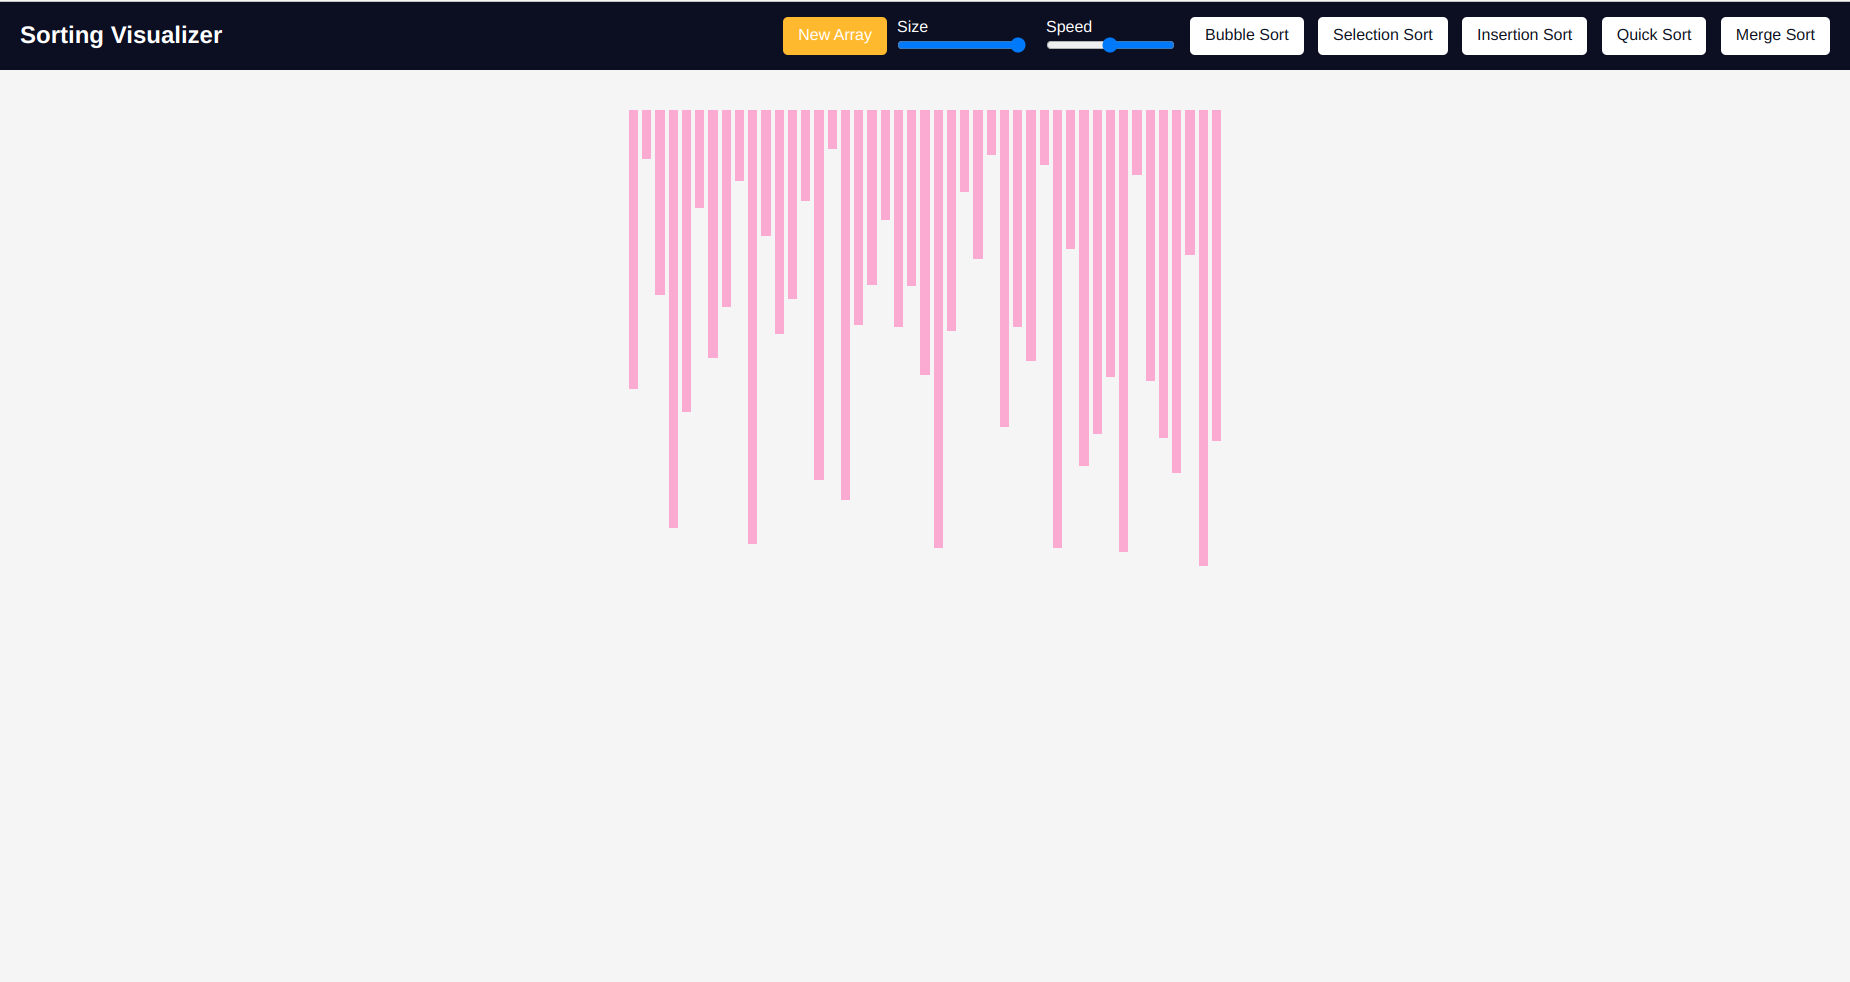
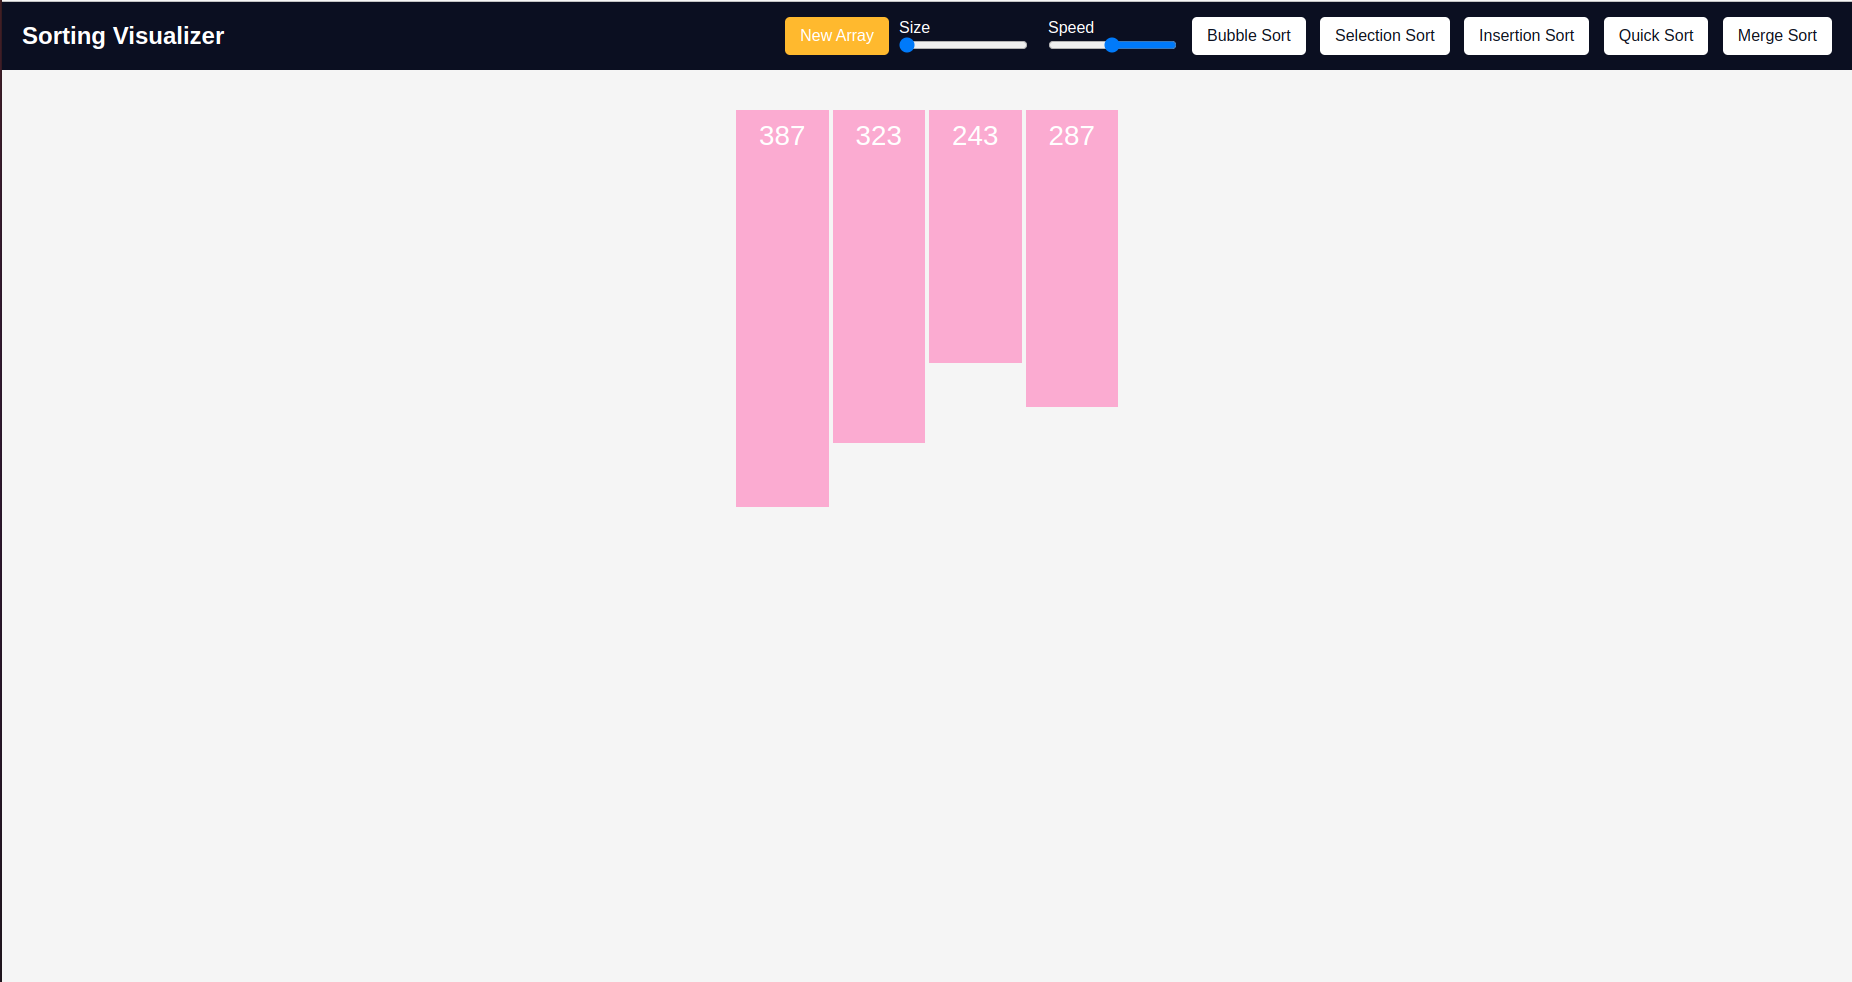
Added Size changing function in array style

diff --git a/Javascripts/sort.js b/Javascripts/sort.js
@@ -18,7 +18,12 @@ let dropdown = document.getElementById("dropdown");
 let visualize = document.getElementById("visualize");
 var w = window.innerWidth;
 let speed = speedSlider.value;
+
 console.log("///"+w)
+
+if(w>1130){
+    sizeSlider.max=100;
+}
 
 if(w<450){
     sizeSlider.max=65;
@@ -43,7 +48,7 @@ function createArray(){
     for(let i=0; i<arraySize; i++){
         let length = Math.floor((Math.random()*450)+25);
         let bar = document.createElement("div");
-        //bar.innerHTML=length;
+        bar.innerHTML=length;
         bar.id = i
         bar.className = "array";
         array.push(length);
@@ -54,7 +59,31 @@ function createArray(){
 
 
 sizeSlider.onchange = function(){
+    let size;
+    let font;
     createArray();
+    let cssArr = document.querySelectorAll('.array')
+    if(sizeSlider.value <= 14){
+        size = 5;
+        font = 2;
+    }
+    if(sizeSlider.value > 14){
+        size = 2;
+        font = 0;
+    }
+    if(sizeSlider.value > 25){
+        size = 1;
+        font = 0;
+    }
+    if(sizeSlider.value > 35){
+        size = 0.5;
+        font = 0;
+    }
+
+    cssArr.forEach(arr =>{
+        arr.style.fontSize = font+"vw"
+        arr.style.width = size+"vw";
+    });
 }
 
 newArray.onclick = function(){

diff --git a/Javascripts/merge.js b/Javascripts/merge.js
@@ -30,6 +30,7 @@ async function conqure(array, si, mid, ei){
             }
             
             document.getElementById(k).style.height = left[i];
+            document.getElementById(k).innerHTML = parseInt(left[i]);
             i++;
             k++;
         }
@@ -41,6 +42,7 @@ async function conqure(array, si, mid, ei){
                 document.getElementById(k).style.background="lightgreen";
             } 
             document.getElementById(k).style.height = right[j];
+            document.getElementById(k).innerHTML = parseInt(right[j]);
             j++;
             k++;
         }
@@ -54,6 +56,7 @@ async function conqure(array, si, mid, ei){
             document.getElementById(k).style.background="lightgreen";
         }
         document.getElementById(k).style.height = left[i];
+        document.getElementById(k).innerHTML = parseInt(left[i]);
         i++;
         k++;
     }
@@ -66,6 +69,7 @@ async function conqure(array, si, mid, ei){
             document.getElementById(k).style.background="lightgreen";
         }
         document.getElementById(k).style.height = right[j];
+        document.getElementById(k).innerHTML = parseInt(right[j]);
         j++;
         k++;
     }

diff --git a/Javascripts/quick.js b/Javascripts/quick.js
@@ -16,7 +16,9 @@ import {wait,disable,enable} from "./sort.js"
             let temp = document.getElementById(i).style.height;
             
             document.getElementById(i).style.height = document.getElementById(j).style.height
+            document.getElementById(i).innerHTML = parseInt(document.getElementById(j).style.height);
             document.getElementById(j).style.height = temp;
+            document.getElementById(j).innerHTML = parseInt(temp);
             document.getElementById(i).style.backgroundColor="orange";
 
             if(j!=i){
@@ -29,7 +31,9 @@ import {wait,disable,enable} from "./sort.js"
     i++;
     let temp = document.getElementById(i).style.height;
     document.getElementById(i).style.height = pivot+"px";
+    document.getElementById(i).innerHTML = pivot;
     document.getElementById(j).style.height = temp;
+    document.getElementById(j).innerHTML = parseInt(temp);
     document.getElementById(high).style.backgroundColor="#ccccff";
     document.getElementById(i).style.backgroundColor="#00cc00";
     

diff --git a/Javascripts/bubble.js b/Javascripts/bubble.js
@@ -12,9 +12,9 @@ async function bubbleSort(array){
                 let temp = document.getElementById(j).style.height
                 console.log(temp)
                 document.getElementById(j).style.height = document.getElementById(j+1).style.height;
-                //document.getElementById(j).innerHTML = parseInt(document.getElementById(j+1).style.height);
+                document.getElementById(j).innerHTML = parseInt(document.getElementById(j+1).style.height);
                 document.getElementById(j+1).style.height = temp;
-                //document.getElementById(j+1).innerHTML = parseInt(temp);
+                document.getElementById(j+1).innerHTML = parseInt(temp);
                 await wait(10);
             }
             document.getElementById(j).style.backgroundColor="#ff339962"

diff --git a/Javascripts/insertion.js b/Javascripts/insertion.js
@@ -13,6 +13,7 @@ async function insertionSort(array){
             
             document.getElementById(i).style.backgroundColor="#00cc00";
             document.getElementById(j+1).style.height = document.getElementById(j).style.height;
+            document.getElementById(j+1).innerHTML = parseInt(document.getElementById(j).style.height);
             document.getElementById(j+1).style.backgroundColor="#0099ff"
             
             await wait(4)
@@ -25,6 +26,7 @@ async function insertionSort(array){
         document.getElementById(j+1).style.backgroundColor="#00cc00"
     
         document.getElementById(j+1).style.height = current+"px";
+        document.getElementById(j+1).innerHTML = current;
     }
 
    document.getElementById(array.length-1).style.backgroundColor="#00cc00"

diff --git a/Javascripts/selection.js b/Javascripts/selection.js
@@ -20,8 +20,10 @@ async function selectionSort(array){
         }
         let temp = document.getElementById(smallest).style.height;
         document.getElementById(smallest).style.height = document.getElementById(i).style.height;
+        document.getElementById(smallest).innerHTML = parseInt(document.getElementById(i).style.height);
         
         document.getElementById(i).style.height = temp;
+        document.getElementById(i).innerHTML = parseInt(temp);
 
         document.getElementById(smallest).style.backgroundColor="#ff339962"
         document.getElementById(i).style.backgroundColor="#00cc00"

diff --git a/index.html b/index.html
@@ -16,7 +16,7 @@
                 <button class="new-array" id="new-array">New Array</button>
 
                 <div class="range-container">
-                    <div class="range-holder"><label>Size</label><input id="array-size" min="10" max="80" type="range"></div>
+                    <div class="range-holder"><label>Size</label><input id="array-size" min="4" max="80" type="range" value="4"></div>
                     <div class="range-holder"><label>Speed</label><input id="sort-speed" min="10" type="range"></div>
                 </div>
     

diff --git a/sort.css b/sort.css
@@ -161,11 +161,12 @@ button{
 }
 
 .array{
-    width: 0.5vw;
+    width: 5vw;
     background-color: #ff339962;
     color: white;
     text-align: center;
-    font-size: 12px;
+    font-size: 1.5vw;
+    padding-top: 10px;
     margin: 0px 2px;
     transition:  0.1s all ease;
 }
